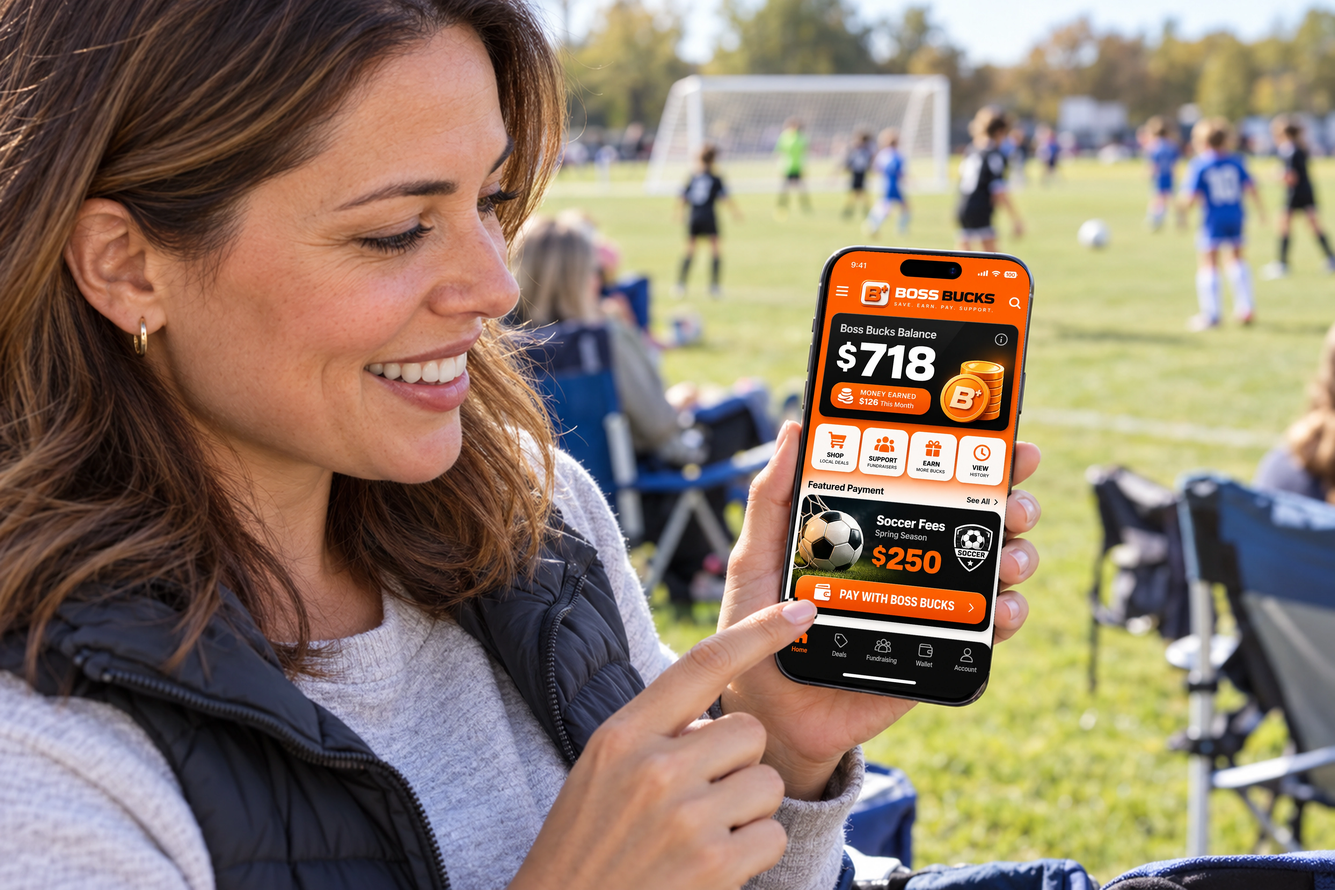
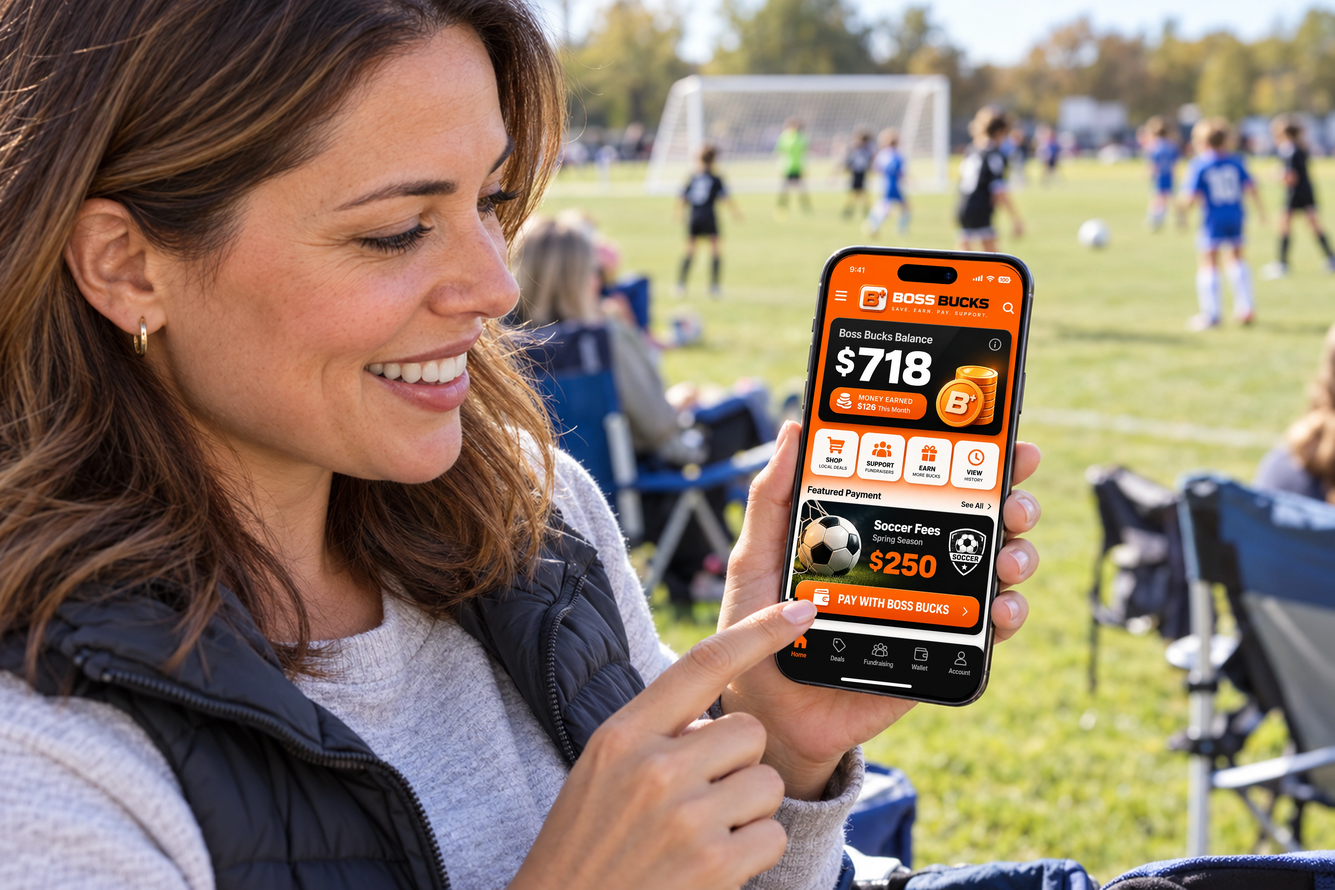
Refine wallet screen fit and match final benefit card styling

Changed region(s): [[0.5938, 0.2812, 0.7812, 0.7812]]

diff --git a/app/boss-bucks-account/page.tsx b/app/boss-bucks-account/page.tsx
@@ -25,7 +25,7 @@ export default function Page(){return <div className={home.home}><a className={h
 <section className={s.expenses}><div className={s.expenseHeading}><h2>Help cover the cost<br/><em>of showing up.</em></h2><p>Make more of the activities your children love possible. Eligible uses depend on organization rules, the campaign and available program features.</p></div><div className={s.expenseGrid}>{expenses.map(([n,title,copy],i)=><article key={title}><span className={s.number}>{n}</span><CardIcon kind={["fees","gear","camp","trophy","travel"][i]}/><h3>{title}</h3><p>{copy}</p></article>)}</div><div className={s.photos}><Photo crop="0 1119 354 208" alt="A girls volleyball team encouraging each other in a gym"/><Photo crop="367 1119 353 208" alt="Young people and a group leader enjoying an outdoor camp activity"/></div><p className={s.note}>Expenses must relate to an approved participating activity. Ordinary household purchases and unrelated trips fall outside this purpose. Confirm eligibility before incurring an expense.</p></section>
 <section className={s.coming}><div><p className={s.pill}>COMING SOON</p><h2>More ways to<br/><em>cover the journey.</em></h2><p>Planned fuel and restaurant gift cards would help cover approved activity-related travel and meal expenses.</p><p className={s.note}>Program rules apply. Vendors, limits and redemption procedures will be provided as benefits become available.</p></div><figure><Photo crop="318 1343 180 108" alt="A driver refueling a vehicle"/><figcaption>Fuel gift cards</figcaption></figure><figure><Photo crop="510 1343 194 108" alt="People sharing a restaurant meal"/><figcaption>Restaurant gift cards</figcaption></figure></section>
 <section className={s.integrity}><div><h2>One family view.<br/><em>Every dollar has a purpose.</em></h2><h3>Approved expenses. Clear attribution. Organization rules.</h3><p>Family credits and organizational proceeds remain distinct. Families use eligible credits for approved costs. Only eligible organizational proceeds may settle to an approved organization bank account.</p><p><strong>Family Boss Bucks cannot be withdrawn as cash or transferred to a personal bank account.</strong></p><p>The intended account experience keeps the source, allocation and use of credits identifiable, with clear records of approved spending. Families need to know what is available and what remains subject to processing or review.</p><p>A combined view does not erase restrictions or make every balance available for every activity. Final approval and redemption procedures will be provided as account features become available.</p></div><aside><h3>A practical family example</h3><p>Manage one child’s school basketball fundraiser, that child’s church youth-camp fundraiser and a sibling’s club-team fundraiser together. Each retains its attribution and applicable spending rules.</p><div className={s.math}><div><span>Approved registration</span><strong>$450</strong></div><div><span>Eligible credits applied</span><strong>−$300</strong></div><div><span>Remaining to pay</span><strong>$150</strong></div></div><p className={s.note}>Illustrative example, not a promise of results. Credits must be available and authorized for this expense. Other restricted balances are not automatically available to cover the difference.</p></aside></section>
-<section className={s.value}><article><span className={s.number}>01</span><h3>Less pressure for families</h3><p>Bring multiple children’s fundraising into one place. Understand progress and eligible balances. Help cover fees, camps, equipment and activity-related travel through effort and community support.</p></article><article><span className={s.number}>02</span><h3>Stronger support for organizations</h3><p>Give families a clear reason to participate in fundraising. Keep organizational proceeds distinct from family credits, preserve campaign attribution and help more young people access your programs.</p></article><article><span className={s.number}>03</span><h3>A clear purpose for supporters</h3><p>Choose a campaign and know which participant or organization you support. Where offered, enjoy Boss Bucks membership benefits under the campaign’s terms.</p></article></section>
+<section className={s.value}><article><span className={s.number}>01</span><CardIcon kind="connect"/><h3>Less pressure for families</h3><p>Bring multiple children’s fundraising into one place. Understand progress and eligible balances. Help cover fees, camps, equipment and activity-related travel through effort and community support.</p></article><article><span className={s.number}>02</span><CardIcon kind="track"/><h3>Stronger support for organizations</h3><p>Give families a clear reason to participate in fundraising. Keep organizational proceeds distinct from family credits, preserve campaign attribution and help more young people access your programs.</p></article><article><span className={s.number}>03</span><CardIcon kind="share"/><h3>A clear purpose for supporters</h3><p>Choose a campaign and know which participant or organization you support. Where offered, enjoy Boss Bucks membership benefits under the campaign’s terms.</p></article></section>
 <section className={s.faq}><div><h2>Frequently<br/><em>Asked Questions.</em></h2><p>Clear answers about your Boss Bucks account.</p></div><div>{faqs.map(([q,a])=><details key={q}><summary>{q}</summary><p>{a}</p></details>)}</div></section>
 <section className={s.closing}><div><h2>Their potential<br/>deserves room to grow.</h2><p>The Boss exists to equip and empower this generation. We are working to make participation more accessible across backgrounds and economic circumstances, with more ways to put effort to work and build community around their goals.</p><h2>Fundraise <em>Like a Boss.</em></h2><div className={s.actions}><Link href="/fundraising/get-started" className={s.button}>Start a Fundraiser →</Link><Link href="/request-information" className={s.secondary}>Ask About a Family Account</Link></div><p className={s.note}>Platform vision. Features and eligible uses vary by program.</p></div><div className={s.closingPhoto}><Photo crop="445 1803 276 175" alt="A young soccer player looking toward a field at sunset"/></div></section>
 </main><ApprovedFooter/></div>}

diff --git a/app/boss-bucks-account/account.module.css b/app/boss-bucks-account/account.module.css
@@ -3,13 +3,13 @@
 @media(max-width:650px){.hero,.intro,.benefits,.expenseHeading,.integrity,.faq,.closing{grid-template-columns:1fr}.hero>div:first-child{padding:36px 22px}.hero h1{font-size:2.75rem}.heroPhoto{min-height:0;height:300px}.intro,.stepsSection,.benefits,.expenses,.integrity,.value,.faq{padding:32px 20px}.intro{gap:25px}.account{border-width:7px}.accountTop{font-size:.8rem;padding:13px}.accountBody{padding:16px}.accountRow{padding:12px;gap:10px}.accountRow strong{font-size:.9rem}.steps{grid-template-columns:1fr;gap:14px}.steps article{padding:20px}.allocation{padding:20px}.benefits{padding-top:0}.benefits article{grid-template-columns:1.2fr .8fr;min-height:240px}.benefits article>div{padding:20px 15px}.benefits article .benefitPhoto{height:100%;min-height:240px}.expenseGrid{grid-template-columns:1fr 1fr}.expenseGrid article:last-child{grid-column:1/-1}.photos{grid-template-columns:1fr}.coming{padding:32px 20px;gap:14px}.coming figcaption{font-size:.9rem;padding:13px 10px}.integrity aside{padding:22px}.value{grid-template-columns:1fr;padding-top:0}.faq{gap:25px}.closing>div:first-child{padding:32px 22px}.closingPhoto{height:265px}.actions{flex-direction:column}.page h3{font-size:1.3rem}.expenseGrid h3{font-size:1.1rem}.accountBody h3{font-size:1.15rem}}
 
 /* Scoped visual polish: preserve existing card grids and dimensions. */
-.steps article,.expenseGrid article{position:relative;isolation:isolate;overflow:hidden;border-color:#eaded5;border-radius:12px;background:linear-gradient(135deg,#fff4ea 0%,#fff 48%);box-shadow:0 6px 18px #17242e09}
-.steps article:before,.expenseGrid article:before{content:"";position:absolute;inset:0 0 auto;height:3px;background:linear-gradient(90deg,#fc5109,#ffa46b 58%,#ffd8be)}
-.steps .number,.expenseGrid .number{background:#18242e;color:#fff;box-shadow:0 3px 0 #fc5109,0 5px 12px #17242e15;border-radius:13px}
+.steps article,.expenseGrid article,.value article{position:relative;isolation:isolate;overflow:hidden;border-color:#eaded5;border-radius:12px;background:linear-gradient(135deg,#fff4ea 0%,#fff 48%);box-shadow:0 6px 18px #17242e09}
+.steps article:before,.expenseGrid article:before,.value article:before{content:"";position:absolute;inset:0 0 auto;height:3px;background:linear-gradient(90deg,#fc5109,#ffa46b 58%,#ffd8be)}
+.steps .number,.expenseGrid .number,.value .number{background:#18242e;color:#fff;box-shadow:0 3px 0 #fc5109,0 5px 12px #17242e15;border-radius:13px}
 .cardIcon{position:absolute;right:22px;top:24px;display:grid;place-items:center;width:44px;height:44px;border-radius:13px;background:#fff1e6;color:#ce4707;border:1px solid #ffd8bd}
 .page .cardIcon svg{width:25px;height:25px}
 .expenseGrid .cardIcon{top:20px;right:16px}
-@media(prefers-reduced-motion:no-preference){.steps article,.expenseGrid article{transition:box-shadow .2s ease,border-color .2s ease}.steps article:hover,.expenseGrid article:hover{border-color:#ffb081;box-shadow:0 9px 24px #17242e12}}
+@media(prefers-reduced-motion:no-preference){.steps article,.expenseGrid article,.value article{transition:box-shadow .2s ease,border-color .2s ease}.steps article:hover,.expenseGrid article:hover,.value article:hover{border-color:#ffb081;box-shadow:0 9px 24px #17242e12}}
 
 /* Membership and earned-credit benefits: keep the existing responsive frames. */
 .benefits article{background:#c63b00}

diff --git a/scripts/design/composite-benefit-screens.py b/scripts/design/composite-benefit-screens.py
@@ -38,4 +38,4 @@ def composite(scene_name, source_name, crop, corners, output, finger=None):
     print(output,result.size,(ASSETS/output).stat().st_size,'bytes; all pixels outside mask preserved')
 
 composite('account-discount-bbq.png','discounts-original.png',(240,42,857,1344),[(858,235),(1086,228),(1087,730),(858,730)],'account-discount-bbq-exact.webp')
-composite('account-earned-sideline.png','boss-bucks-wallet-approved.png',(46,37,839,1726),[(960,287),(1188,301),(1134,802),(890,773)],'account-earned-sideline-exact.webp',[(850,700),(880,695),(900,690),(917,687),(928,689),(936,694),(940,700),(940,709),(935,718),(925,729),(910,740),(895,750),(875,763),(850,775)])
+composite('account-earned-sideline.png','boss-bucks-wallet-approved.png',(46,37,839,1726),[(959,292),(1180,307),(1126,805),(890,779)],'account-earned-sideline-exact.webp',[(850,700),(880,695),(900,690),(917,687),(928,689),(936,694),(940,700),(940,709),(935,718),(925,729),(910,740),(895,750),(875,763),(850,775)])
